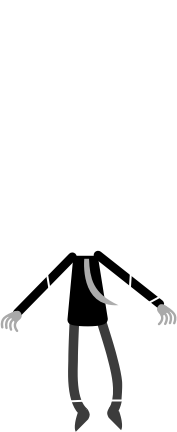
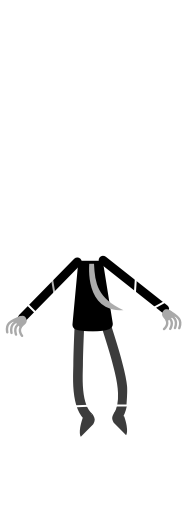
WIP:puppets

Changed region(s): [[0.0, 0.4815, 1.0, 1.0]]

diff --git a/_includes/puppets.html b/_includes/puppets.html
@@ -1,0 +1,37 @@
+<div class='container'>
+	<div class='row'>
+		<div class="col-md-2">
+			<div class="simple-puppet"><img src="{{site.url}}/img/congressman/puppets/pablo-zalaquett.png"></div>
+		</div>
+		<div class="col-md-2">
+			<div class="hand-puppet"><img src="{{site.url}}/img/congressman/puppets/pablo-zalaquett.png"></div>
+		</div>
+		<div class="col-md-2">
+			<div class="simple-puppet"><img src="{{site.url}}/img/congressman/puppets/pablo-zalaquett.png"></div>
+		</div>
+		<div class="col-md-2">
+			<div class="hand-puppet"><img src="{{site.url}}/img/congressman/puppets/pablo-zalaquett.png"></div>
+		</div>
+		<div class="col-md-2">
+			<div class="simple-puppet"><img src="{{site.url}}/img/congressman/puppets/pablo-zalaquett.png"></div>
+		</div>
+		<div class="col-md-2">
+			<div class="hand-puppet"><img src="{{site.url}}/img/congressman/puppets/pablo-zalaquett.png"></div>
+		</div>
+		<div class="col-md-2">
+			<div class="simple-puppet"><img src="{{site.url}}/img/congressman/puppets/pablo-zalaquett.png"></div>
+		</div>
+		<div class="col-md-2">
+			<div class="simple-puppet"><img src="{{site.url}}/img/congressman/puppets/pablo-zalaquett.png"></div>
+		</div>
+		<div class="col-md-2">
+			<div class="simple-puppet"><img src="{{site.url}}/img/congressman/puppets/pablo-zalaquett.png"></div>
+		</div>
+		<div class="col-md-2">
+			<div class="simple-puppet"><img src="{{site.url}}/img/congressman/puppets/pablo-zalaquett.png"></div>
+		</div>
+		<div class="col-md-2">
+			<div class="simple-puppet"><img src="{{site.url}}/img/congressman/puppets/pablo-zalaquett.png"></div>
+		</div>
+	</div>
+</div>

diff --git a/_sass/_layout.scss b/_sass/_layout.scss
@@ -881,3 +881,19 @@ span.paring {
 	right: 4px;
 }
 
+/*PUPPETS*/
+
+.simple-puppet {
+	background: url(../img/simple-puppet.png) 0px -5px no-repeat;
+	padding: 110px 0px 0px 38px;
+	height: 430px;
+	width: 180px;
+}
+
+.hand-puppet {
+	background: url(../img/hand-puppet.png) -5px -25px no-repeat;
+	padding: 199px 0px 0px 63px;
+	height: 515px;
+	width: 245px;
+}
+

diff --git a/_includes/buttons.html b/_includes/buttons.html
@@ -1,5 +1,5 @@
 <!-- Bottones sociales -->
-	<div class="container">
+<div class="container">
 		<div class="follow clearfix">
 		<div class="col-md-1 col-md-offset-9">
 		<a class="twitter-share-button" href="https://twitter.com/share" data-related="twitterdev">Tweet</a>

diff --git a/index.html b/index.html
@@ -2,7 +2,7 @@
 layout: default
 ---	
 
-{% include buttons.html %}
+{% include puppets.html %}
 {% include banner2.html %}
 <div class="container">
   	<div class="row">
